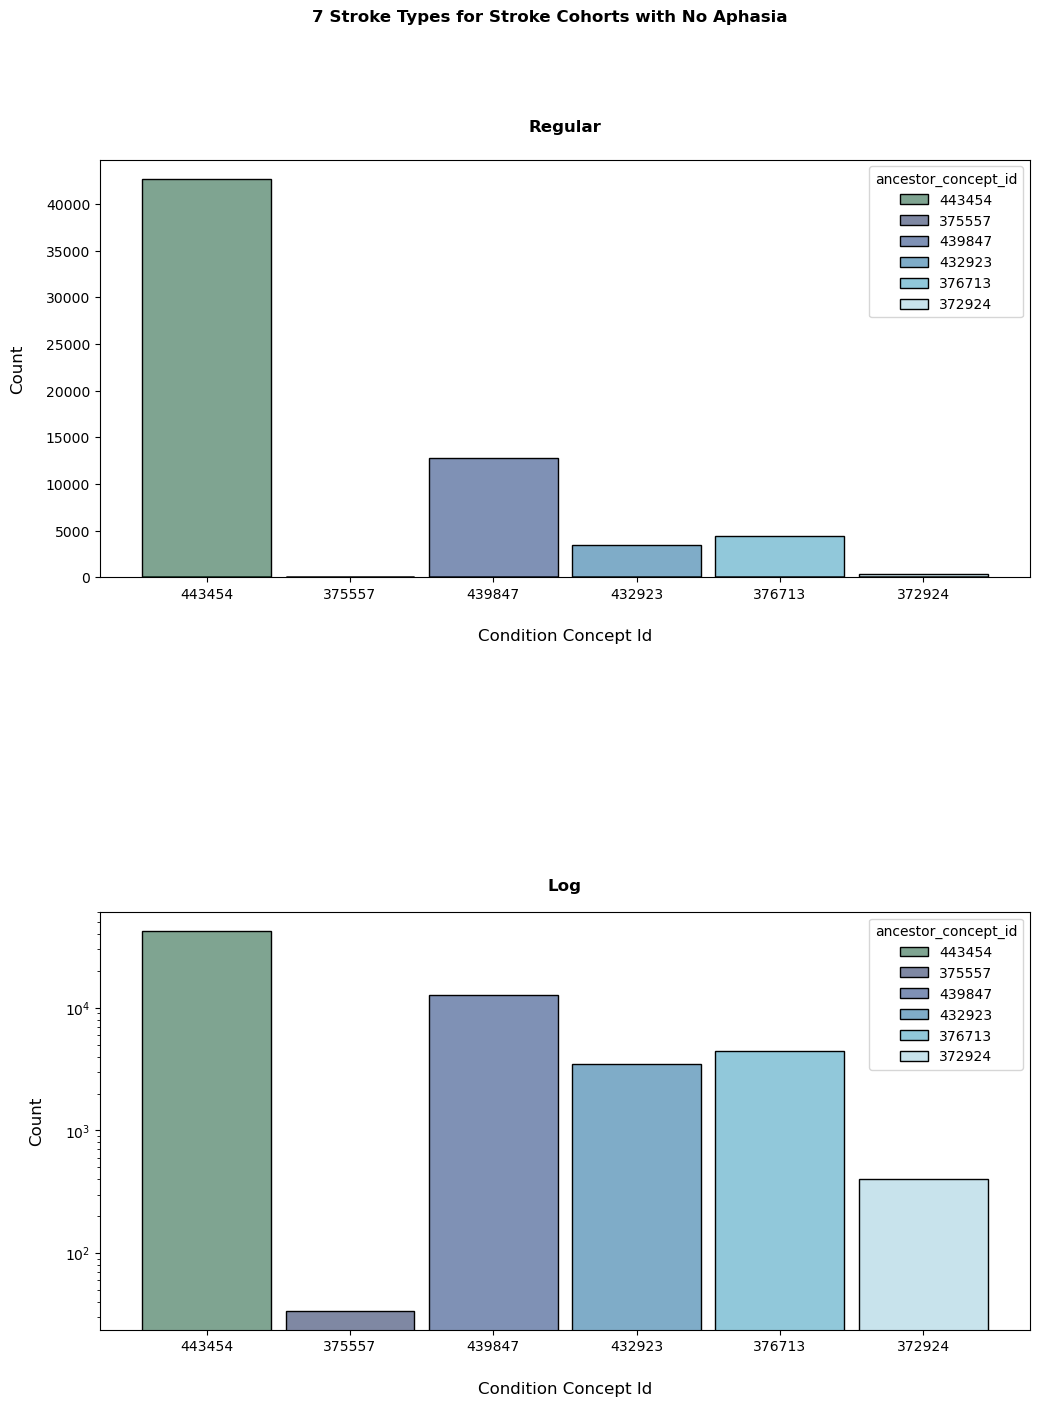
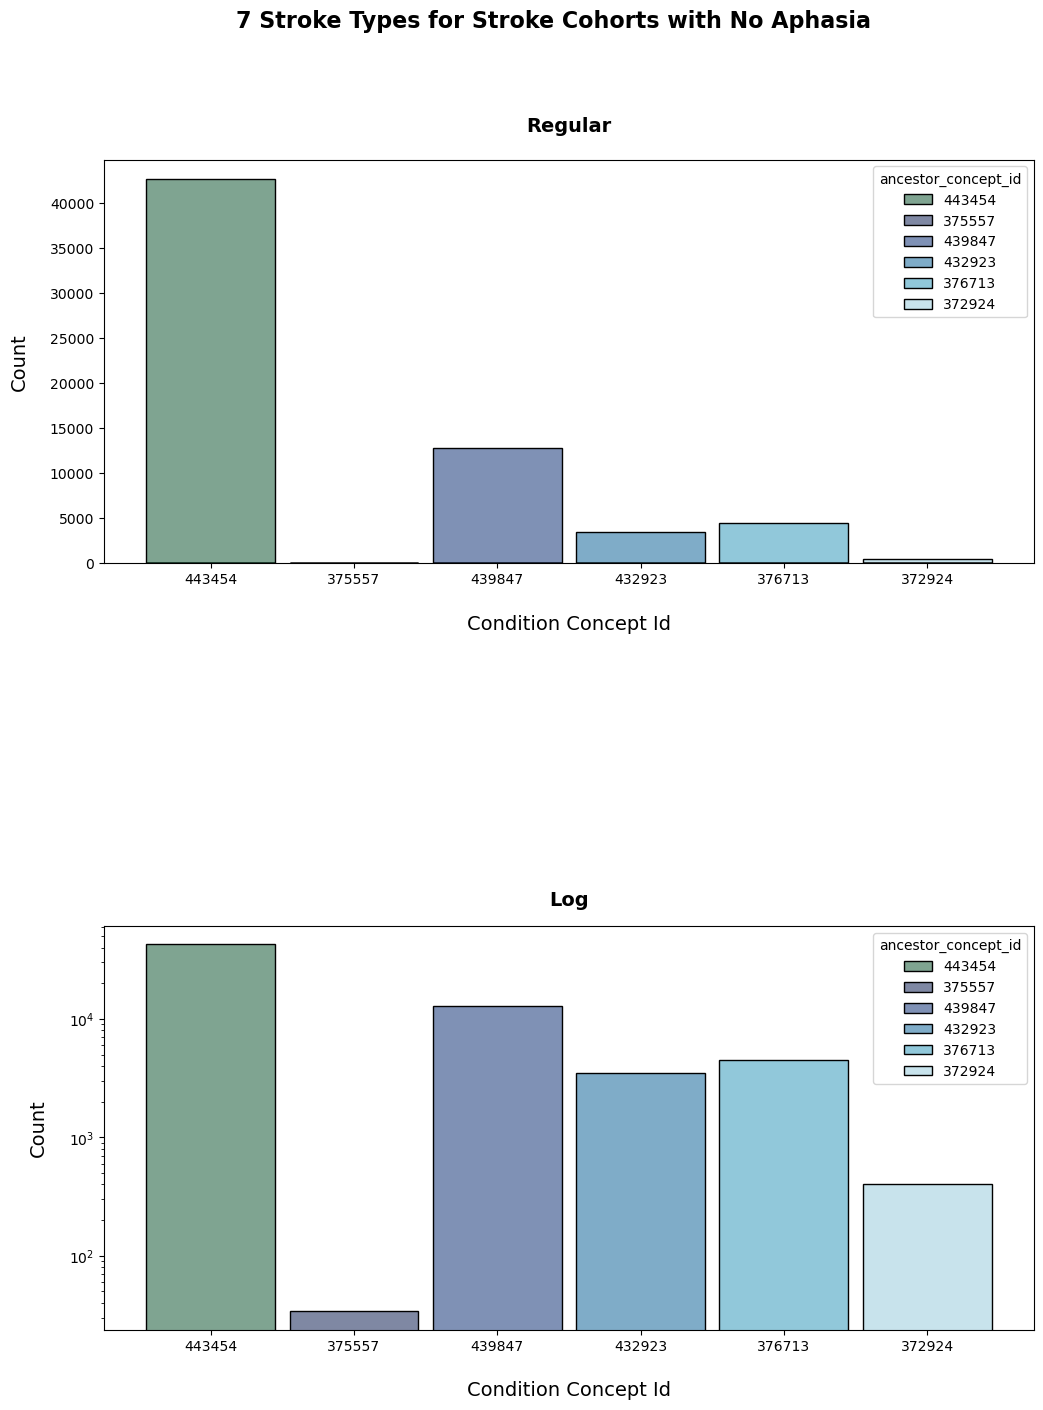
plot_aphas_false update

diff --git a/src/plot_stroke_type_aphasia_FALSE.py b/src/plot_stroke_type_aphasia_FALSE.py
@@ -30,19 +30,19 @@ sns.histplot(data=df, x="ancestor_concept_id", hue="ancestor_concept_id", palett
 sns.histplot(data=df, x="ancestor_concept_id", hue="ancestor_concept_id", palette="ocean", shrink=0.9, ax=ax[1])
 
 #plot 1 
-ax[0].set_title("Regular", weight="bold", pad=20)
-ax[0].set_xlabel("Condition Concept Id", fontsize=12, labelpad=20)
-ax[0].set_ylabel("Count", fontsize=12, labelpad=15)
+ax[0].set_title("Regular", weight="bold", fontsize=14, pad=20)
+ax[0].set_xlabel("Condition Concept Id", fontsize=14, labelpad=20)
+ax[0].set_ylabel("Count", fontsize=14, labelpad=15)
 
 #plot 2 - log 
 ax[1].set_yscale("log")
-ax[1].set_title("Log", weight="bold", pad=15)
-ax[1].set_xlabel("Condition Concept Id", fontsize=12, labelpad=20)
-ax[1].set_ylabel("Count", fontsize=12, labelpad=15)
+ax[1].set_title("Log", weight="bold", fontsize=14, pad=15)
+ax[1].set_xlabel("Condition Concept Id", fontsize=14, labelpad=20)
+ax[1].set_ylabel("Count", fontsize=14, labelpad=15)
 
 #plot - all 
-fig.suptitle("7 Stroke Types for Stroke Cohorts with No Aphasia", weight="heavy")
-plt.subplots_adjust(bottom=0.1, hspace=0.8)
+fig.suptitle("7 Stroke Types for Stroke Cohorts with No Aphasia", fontsize=16, weight="heavy")
+plt.subplots_adjust(bottom=0.1, hspace=0.9)
 
 plt.savefig("figs/stroke_type_aphasia_FALSE.png", bbox_inches="tight")
 plt.show()
